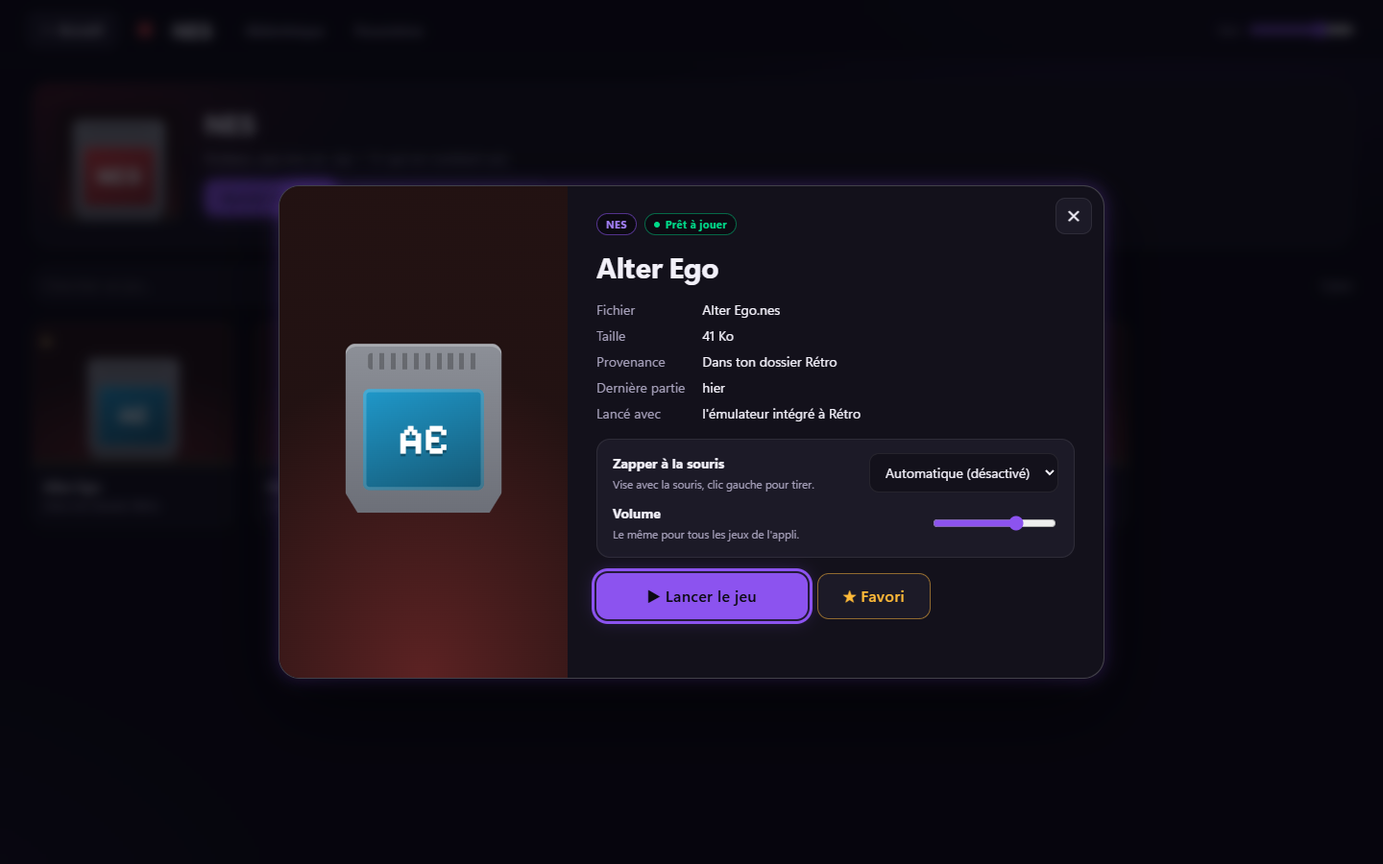
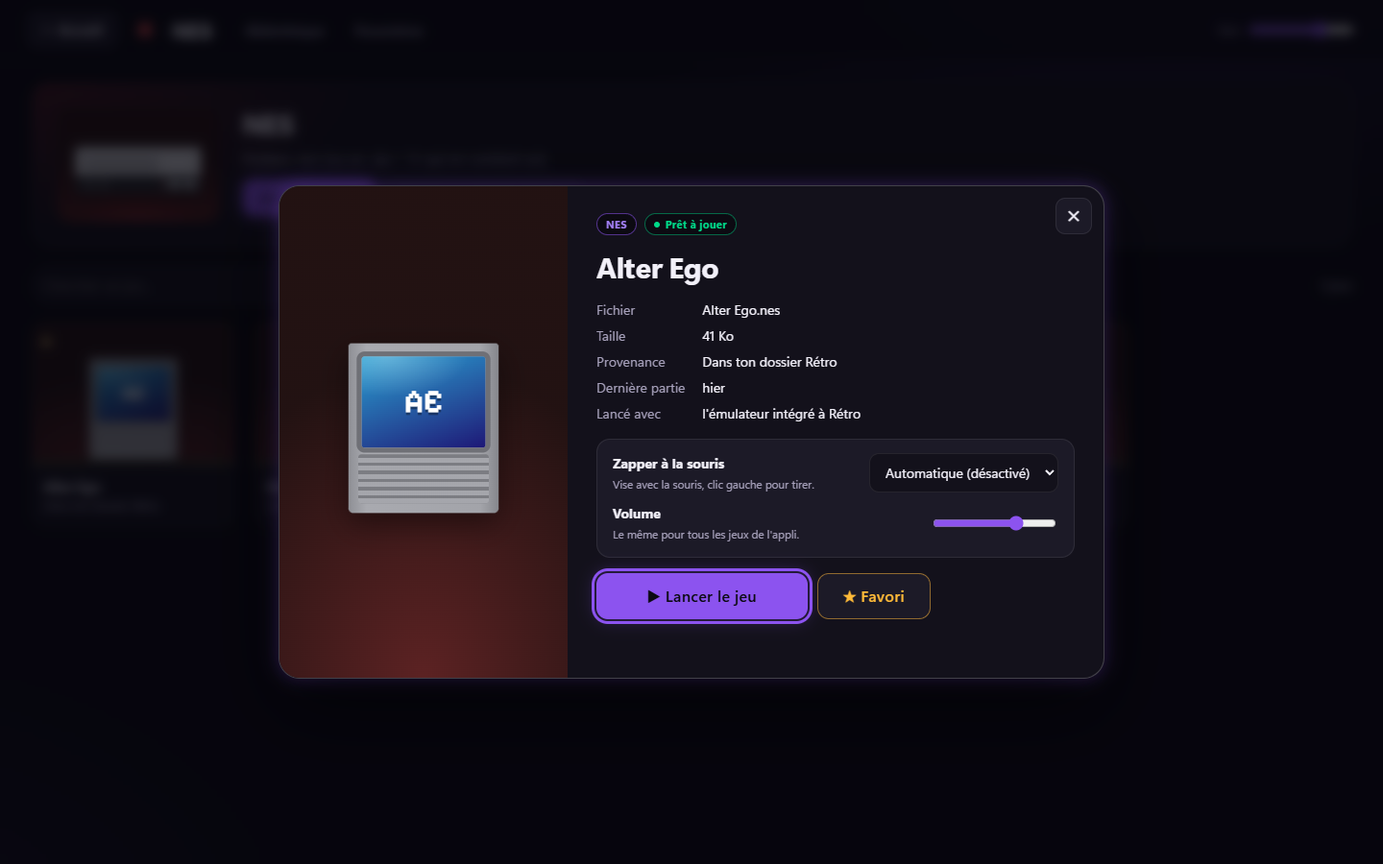
Appli Rétro 0.7.2 : vraies formes des cartouches, disques et consoles
- Jaquettes : un support par console d'après l'objet réel (cartouches
  NES, Super Nintendo, N64 ; CD PlayStation ; cartes DS, 3DS, Switch ;
  UMD PSP ; boîtiers DVD PS2 et Blu-ray PS3 ; mini-disque GameCube).
- Choix des consoles (accueil, pages de console, site) : dessin de la
  console elle-même (consoles-dessins.js, SVG sans logo).
- Captures du site mises à jour.

diff --git a/app/pages/supports.css b/app/pages/supports.css
@@ -1,26 +1,80 @@
-/* Supports de jeu dessinés (cartouche, disque, boîtier, carte, petit disque) : catalogue et accueil. */
-  .jaquette::after { content: ""; position: absolute; left: 0; right: 0; bottom: 0; height: 9px; background: linear-gradient(#3a3227, #241e17); box-shadow: 0 -1px 0 rgba(255,255,255,.08) inset; }
-  .media { position: relative; z-index: 1; display: grid; place-items: center; margin-bottom: 9px; transition: transform .15s; }
-  :is(.carte, .console):hover .media, :is(.carte, .console):focus-visible .media { transform: translateY(-6px) rotate(-1.5deg); }
-  .etiquette { font: 600 26px/1 "Pixelify", system-ui, sans-serif; color: #fff; text-shadow: 0 2px 0 rgba(0,0,0,.3); }
-  /* Cartouche : coque grise, rainures en haut, étiquette colorée */
-  [data-support="cartouche"] .media { width: 96px; height: 104px; border-radius: 7px 7px 3px 3px; background: linear-gradient(#8d9098, #6d7079); box-shadow: 0 6px 12px rgba(0,0,0,.4), inset 0 2px 0 rgba(255,255,255,.25); clip-path: polygon(0 0, 100% 0, 100% 88%, 92% 100%, 8% 100%, 0 88%); }
-  [data-support="cartouche"] .media::before { content: ""; position: absolute; top: 6px; left: 14px; right: 14px; height: 10px; background: repeating-linear-gradient(90deg, rgba(0,0,0,.25) 0 3px, transparent 3px 7px); border-radius: 2px; }
-  [data-support="cartouche"] .etiquette { width: 74px; height: 62px; margin-top: 14px; display: grid; place-items: center; border-radius: 4px; background: linear-gradient(160deg, hsl(var(--t) 60% 52%), hsl(var(--t) 55% 30%)); box-shadow: inset 0 0 0 2px rgba(255,255,255,.18); }
-  /* Disque dans son boîtier transparent */
-  [data-support="disque"] .media { width: 104px; height: 100px; border-radius: 3px; background: linear-gradient(135deg, rgba(255,255,255,.18), rgba(255,255,255,.04) 40%, rgba(255,255,255,.12)); border: 1px solid rgba(255,255,255,.25); box-shadow: 0 6px 12px rgba(0,0,0,.4); }
-  [data-support="disque"] .media::before { content: ""; position: absolute; left: 0; top: 0; bottom: 0; width: 9px; background: rgba(0,0,0,.35); border-right: 1px solid rgba(255,255,255,.15); }
-  [data-support="disque"] .etiquette { width: 80px; height: 80px; margin-left: 9px; border-radius: 50%; display: grid; place-items: center; font-size: 22px;
-    background: radial-gradient(circle, #1b1d22 0 9px, #c9ccd3 9.5px 12px, transparent 12.5px), conic-gradient(from 30deg, hsl(var(--t) 60% 55%), hsl(calc(var(--t) + 60) 60% 50%), hsl(var(--t) 55% 35%), hsl(calc(var(--t) - 50) 60% 55%), hsl(var(--t) 60% 55%)); }
-  /* Boîtier haut (PS2, PS3) : bandeau du haut et jaquette */
-  [data-support="boitier"] .media { width: 78px; height: 112px; border-radius: 4px; overflow: hidden; background: linear-gradient(170deg, hsl(var(--t) 55% 45%), hsl(var(--t) 50% 22%)); box-shadow: 0 6px 12px rgba(0,0,0,.45), inset -5px 0 0 rgba(0,0,0,.25); }
-  [data-support="boitier"] .media::before { content: ""; position: absolute; top: 0; left: 0; right: 0; height: 15px; background: hsl(var(--h) 20% 12%); border-bottom: 1px solid rgba(255,255,255,.2); }
-  [data-support="boitier"] .etiquette { margin-top: 12px; }
-  /* Carte de jeu (3DS, Switch) : petite carte avec un coin coupé */
-  [data-support="carte"] .media { width: 74px; height: 88px; border-radius: 8px; background: linear-gradient(#3a3d45, #24262c); box-shadow: 0 6px 12px rgba(0,0,0,.45); clip-path: polygon(0 0, 82% 0, 100% 13%, 100% 100%, 0 100%); }
-  [data-support="carte"] .media::before { content: ""; position: absolute; top: 5px; left: 9px; right: 18px; height: 6px; background: repeating-linear-gradient(90deg, #d7b45a 0 4px, transparent 4px 7px); opacity: .8; }
-  [data-support="carte"] .etiquette { width: 58px; height: 56px; margin-top: 10px; display: grid; place-items: center; border-radius: 4px; font-size: 22px; background: linear-gradient(160deg, hsl(var(--t) 60% 55%), hsl(var(--t) 55% 32%)); }
-  /* Petit disque dans sa coque (PSP) */
-  [data-support="umd"] .media { width: 92px; height: 100px; border-radius: 14px 14px 8px 8px; background: linear-gradient(#2c2f36, #1c1e23); box-shadow: 0 6px 12px rgba(0,0,0,.45); }
-  [data-support="umd"] .etiquette { width: 66px; height: 66px; border-radius: 50%; display: grid; place-items: center; font-size: 20px; background: radial-gradient(circle, #15161a 0 7px, transparent 7.5px), conic-gradient(hsl(var(--t) 60% 55%), hsl(calc(var(--t) + 80) 55% 50%), hsl(var(--t) 60% 55%)); }
-  @media (prefers-reduced-motion: reduce) { .media { transition: none; } :is(.carte, .console):hover .media { transform: none; } }
+/* Supports de jeu dessinés d'après les vrais objets (sans logo) : une forme par console.
+   Structure : .media (le support) > .etiquette (l'étiquette du jeu, couleur --t propre au jeu).
+   Utilisé par l'accueil, la bibliothèque, les pages de console, la fiche du jeu et le site. */
+.jaquette::after { content: ""; position: absolute; left: 0; right: 0; bottom: 0; height: 9px; background: linear-gradient(#3a3227, #241e17); box-shadow: 0 -1px 0 rgba(255,255,255,.08) inset; }
+.media { position: relative; z-index: 1; display: grid; place-items: center; margin-bottom: 9px; transition: transform .15s; filter: drop-shadow(0 7px 9px rgba(0,0,0,.45)); }
+:is(.carte, .console):hover .media, :is(.carte, .console):focus-visible .media { transform: translateY(-6px) rotate(-1.5deg); }
+.etiquette { position: relative; z-index: 1; display: grid; place-items: center; font: 600 22px/1 "Pixelify", system-ui, sans-serif; color: #fff; text-shadow: 0 2px 0 rgba(0,0,0,.35); }
+/* Illustration du jeu sur l'étiquette : dégradé et reflet, teinte propre à chaque jeu */
+.etiquette { background: radial-gradient(120% 80% at 20% 0%, rgba(255,255,255,.28), transparent 55%), linear-gradient(160deg, hsl(var(--t, 260) 65% 55%), hsl(calc(var(--t, 260) + 40) 60% 30%)); }
+
+/* NES : cartouche grise plus haute que large, étiquette en haut, rainures horizontales en bas */
+[data-support="nes"] .media { width: 92px; height: 104px; align-items: start; padding-top: 8px; border-radius: 2px 2px 3px 3px;
+  background: linear-gradient(90deg, #8f9096, #a9aab0 12%, #a3a4aa 88%, #86878d); }
+[data-support="nes"] .media::after { content: ""; position: absolute; left: 6px; right: 6px; bottom: 6px; height: 30px; border-radius: 2px;
+  background: repeating-linear-gradient(#7c7d83 0 2px, #a5a6ac 2px 5px); }
+[data-support="nes"] .etiquette { width: 76px; height: 56px; border-radius: 2px; font-size: 20px; box-shadow: 0 0 0 3px #6f7076; }
+
+/* Super Nintendo : cartouche gris clair, haut arrondi, encoches de prise sur les côtés */
+[data-support="snes"] .media { width: 108px; height: 84px; border-radius: 14px 14px 4px 4px;
+  background: linear-gradient(#d2d3d9, #b9bac1);
+  clip-path: polygon(0 0, 100% 0, 100% 30%, 94% 34%, 94% 56%, 100% 60%, 100% 100%, 0 100%, 0 60%, 6% 56%, 6% 34%, 0 30%); }
+[data-support="snes"] .media::after { content: ""; position: absolute; left: 0; right: 0; bottom: 0; height: 12px; background: repeating-linear-gradient(90deg, #a9aab1 0 3px, #c3c4cb 3px 6px); }
+[data-support="snes"] .etiquette { width: 74px; height: 50px; margin-bottom: 10px; border-radius: 3px; font-size: 19px; box-shadow: 0 0 0 2px #9fa0a7; }
+
+/* Nintendo 64 : cartouche gris foncé, dessus large et nervuré, bas en trapèze */
+[data-support="n64"] .media { width: 104px; height: 92px; align-items: start; padding-top: 18px; border-radius: 10px 10px 0 0;
+  background: linear-gradient(#4a4c52, #34363b);
+  clip-path: polygon(0 0, 100% 0, 100% 72%, 88% 100%, 12% 100%, 0 72%); }
+[data-support="n64"] .media::before { content: ""; position: absolute; top: 3px; left: 8px; right: 8px; height: 10px; border-radius: 6px 6px 0 0;
+  background: repeating-linear-gradient(90deg, #26272b 0 3px, #55575d 3px 6px); }
+[data-support="n64"] .etiquette { width: 74px; height: 48px; border-radius: 3px; font-size: 19px; }
+
+/* PlayStation : CD à la tranche noire, dans son boîtier cristal (charnière à gauche) */
+[data-support="cd"] .media { width: 104px; height: 100px; border-radius: 3px;
+  background: linear-gradient(135deg, rgba(255,255,255,.22), rgba(255,255,255,.05) 40%, rgba(255,255,255,.14)); border: 1px solid rgba(255,255,255,.3); }
+[data-support="cd"] .media::before { content: ""; position: absolute; left: 0; top: 0; bottom: 0; width: 9px; background: rgba(0,0,0,.4); border-right: 1px solid rgba(255,255,255,.18); }
+[data-support="cd"] .etiquette { width: 82px; height: 82px; margin-left: 9px; border-radius: 50%; font-size: 20px;
+  background: radial-gradient(circle, transparent 0 8px, #c9ccd3 8.5px 12px, transparent 12.5px), radial-gradient(120% 80% at 30% 10%, rgba(255,255,255,.3), transparent 55%), linear-gradient(160deg, hsl(var(--t) 65% 55%), hsl(calc(var(--t) + 40) 60% 30%));
+  box-shadow: 0 0 0 4px #111216, 0 0 0 5px #3a3c44; -webkit-mask: radial-gradient(circle, transparent 0 7.5px, #000 8px); mask: radial-gradient(circle, transparent 0 7.5px, #000 8px); }
+
+/* GameCube : mini-disque de 8 cm dans un boîtier sombre */
+[data-support="minidisque"] .media { width: 90px; height: 104px; border-radius: 4px; background: linear-gradient(#2a2b31, #1b1c20); border: 1px solid rgba(255,255,255,.15); }
+[data-support="minidisque"] .etiquette { width: 64px; height: 64px; border-radius: 50%; font-size: 17px; box-shadow: 0 0 0 3px #d9dbe0;
+  -webkit-mask: radial-gradient(circle, transparent 0 6px, #000 6.5px); mask: radial-gradient(circle, transparent 0 6px, #000 6.5px); }
+
+/* DS : petite carte gris clair, coin haut droit biseauté, étiquette sur presque toute la face */
+[data-support="carteds"] .media { width: 74px; height: 82px; border-radius: 6px 3px 6px 6px; padding-top: 6px; align-items: start;
+  background: linear-gradient(#e1e2e6, #c5c6cc); clip-path: polygon(0 0, 84% 0, 100% 12%, 100% 100%, 0 100%); }
+[data-support="carteds"] .etiquette { width: 62px; height: 62px; border-radius: 3px; font-size: 18px; }
+
+/* 3DS : carte gris clair avec le petit ergot en haut à droite */
+[data-support="carte3ds"] .media { width: 76px; height: 86px; padding-top: 10px; align-items: start; border-radius: 6px;
+  background: linear-gradient(#ebecef, #ccced4); clip-path: polygon(0 4px, 70% 4px, 70% 0, 90% 0, 90% 4px, 100% 4px, 100% 100%, 0 100%); }
+[data-support="carte3ds"] .etiquette { width: 62px; height: 62px; border-radius: 3px; font-size: 18px; }
+
+/* Switch : mini-carte noire, encoche en haut à gauche, étiquette bordée de blanc */
+[data-support="switch"] .media { width: 64px; height: 76px; padding: 6px 0 0; align-items: start; border-radius: 7px;
+  background: linear-gradient(#2c2d33, #17181c); clip-path: polygon(14% 0, 100% 0, 100% 100%, 0 100%, 0 14%, 7% 14%, 7% 0); }
+[data-support="switch"] .etiquette { width: 54px; height: 62px; border-radius: 3px; font-size: 16px; box-shadow: 0 0 0 2px #f2f2f2; }
+
+/* PSP : UMD, coque arrondie en haut avec la fenêtre qui montre le disque */
+[data-support="umd"] .media { width: 88px; height: 100px; border-radius: 44px 44px 8px 8px / 30px 30px 8px 8px; background: linear-gradient(#34363d, #1d1f24); border: 1px solid rgba(255,255,255,.12); }
+[data-support="umd"] .media::after { content: ""; position: absolute; left: 10px; right: 10px; bottom: 6px; height: 10px; border-radius: 2px; background: #121317; }
+[data-support="umd"] .etiquette { width: 66px; height: 66px; margin-bottom: 12px; border-radius: 50%; font-size: 17px; box-shadow: 0 0 0 4px #c8cbd2;
+  -webkit-mask: radial-gradient(circle, transparent 0 7px, #000 7.5px); mask: radial-gradient(circle, transparent 0 7px, #000 7.5px); }
+
+/* PS2 : boîtier DVD noir, bandeau noir en haut, jaquette en dessous */
+[data-support="dvd"] .media { width: 80px; height: 112px; padding: 16px 4px 4px; align-items: stretch; justify-items: stretch; border-radius: 4px; background: #121316; box-shadow: inset 0 0 0 1px rgba(255,255,255,.12), inset -5px 0 0 #050506; }
+[data-support="dvd"] .media::before { content: ""; position: absolute; top: 4px; left: 6px; width: 30px; height: 8px; border-radius: 2px; background: linear-gradient(90deg, #d9dbe0 0 30%, transparent 30% 38%, #d9dbe0 38%); opacity: .75; }
+[data-support="dvd"] .etiquette { border-radius: 2px; font-size: 19px; }
+
+/* PS3 : boîtier Blu-ray plus petit, bandeau noir et liseré bleu */
+[data-support="bluray"] .media { width: 80px; height: 100px; padding: 15px 4px 4px; align-items: stretch; justify-items: stretch; border-radius: 6px;
+  background: linear-gradient(#1d4f9c, #123a77); box-shadow: inset 0 0 0 1px rgba(255,255,255,.2); }
+[data-support="bluray"] .media::before { content: ""; position: absolute; top: 3px; left: 3px; right: 3px; height: 10px; border-radius: 4px 4px 0 0; background: linear-gradient(#0f1012, #000); box-shadow: 0 1px 0 #6aa3ff; }
+[data-support="bluray"] .etiquette { border-radius: 2px; font-size: 19px; }
+
+@media (prefers-reduced-motion: reduce) { .media { transition: none; } :is(.carte, .console):hover .media { transform: none; } }
+/* Disques : le titre sous le trou central */
+:is([data-support="cd"], [data-support="umd"], [data-support="minidisque"]) .etiquette { place-items: end center; padding-bottom: 14%; font-size: 15px; }

diff --git a/app/pages/consoles-dessins.js b/app/pages/consoles-dessins.js
@@ -1,0 +1,101 @@
+// Dessins des consoles (SVG, sans logo ni marque) pour les tuiles de choix de console : accueil, pages de console, site.
+// RetroDessins.console(id) rend le SVG (texte fixe défini ici, jamais de données de l'utilisateur).
+(function () {
+  "use strict";
+  const svg = c => '<svg viewBox="0 0 160 100" aria-hidden="true" focusable="false">' + c + "</svg>";
+  const DESSINS = {
+    // NES : boîte grise, trappe à cartouche nervurée, bande noire en bas avec boutons et voyant rouge
+    nes: svg(`
+      <rect x="10" y="30" width="140" height="52" rx="3" fill="#cfcfd3"/>
+      <rect x="10" y="30" width="140" height="6" rx="2" fill="#bdbdc2"/>
+      <rect x="18" y="40" width="86" height="20" rx="1.5" fill="#b5b5ba"/>
+      <path d="M22 45h78M22 49.5h78M22 54h78" stroke="#9d9da3" stroke-width="1.6"/>
+      <rect x="10" y="62" width="140" height="20" rx="2" fill="#26262a"/>
+      <rect x="20" y="67" width="11" height="9" rx="1" fill="#4a4a50"/><rect x="36" y="67" width="11" height="9" rx="1" fill="#4a4a50"/>
+      <circle cx="107" cy="71.5" r="1.8" fill="#ff3b3b"/>
+      <rect x="113" y="68" width="14" height="7" rx="1.5" fill="#d9d9dd"/><rect x="131" y="68" width="14" height="7" rx="1.5" fill="#d9d9dd"/>`),
+    // Super Nintendo (modèle arrondi) : corps gris clair, fente à cartouche, curseurs et bouton d'éjection
+    snes: svg(`
+      <rect x="12" y="40" width="136" height="44" rx="16" fill="#d9dade"/>
+      <rect x="34" y="26" width="92" height="22" rx="8" fill="#c9cad0"/>
+      <rect x="48" y="31" width="64" height="5" rx="2" fill="#2d2e33"/>
+      <rect x="24" y="52" width="14" height="6" rx="2" fill="#8e8f96"/><rect x="122" y="52" width="14" height="6" rx="2" fill="#8e8f96"/>
+      <rect x="70" y="52" width="20" height="7" rx="3" fill="#b2b3ba"/>
+      <rect x="30" y="70" width="12" height="7" rx="1.5" fill="#55565c"/><rect x="46" y="70" width="12" height="7" rx="1.5" fill="#55565c"/>
+      <circle cx="112" cy="73" r="1.6" fill="#ff4444"/>`),
+    // Nintendo 64 : corps anthracite, bosse centrale avec la fente, 4 prises manette devant
+    n64: svg(`
+      <path d="M8 60 Q10 46 30 44 L52 40 Q80 22 108 40 L130 44 Q150 46 152 60 L150 80 Q148 86 140 86 L20 86 Q12 86 10 80 Z" fill="#3a3c42"/>
+      <path d="M58 40 Q80 26 102 40 Z" fill="#2c2e33"/>
+      <rect x="62" y="35" width="36" height="4" rx="2" fill="#111215"/>
+      <rect x="30" y="50" width="10" height="5" rx="2" fill="#6c6e75"/><rect x="120" y="50" width="10" height="5" rx="2" fill="#6c6e75"/>
+      <g fill="#1b1c20"><rect x="40" y="70" width="14" height="9" rx="2"/><rect x="60" y="70" width="14" height="9" rx="2"/><rect x="86" y="70" width="14" height="9" rx="2"/><rect x="106" y="70" width="14" height="9" rx="2"/></g>`),
+    // PlayStation : boîtier gris vu de dessus, grand couvercle rond, trois boutons ronds
+    psx: svg(`
+      <rect x="14" y="14" width="132" height="74" rx="6" fill="#c9cacf"/>
+      <rect x="14" y="14" width="132" height="74" rx="6" fill="none" stroke="#b4b5bb" stroke-width="2"/>
+      <circle cx="58" cy="51" r="31" fill="#bfc0c6" stroke="#a9aab0" stroke-width="2"/>
+      <circle cx="58" cy="51" r="6" fill="#adaeb4"/>
+      <circle cx="108" cy="34" r="7" fill="#9fa0a7"/><circle cx="126" cy="54" r="6" fill="#9fa0a7"/><circle cx="108" cy="70" r="6" fill="#9fa0a7"/>
+      <circle cx="126" cy="72" r="1.6" fill="#3fd06a"/>`),
+    // DS Lite ouverte : deux écrans, croix et boutons
+    ds: svg(`
+      <rect x="44" y="4" width="72" height="44" rx="5" fill="#eceef2"/>
+      <rect x="56" y="10" width="48" height="33" rx="1.5" fill="#1b1d24"/><rect x="58" y="12" width="44" height="29" fill="hsl(220 60% 40%)"/>
+      <rect x="40" y="52" width="80" height="44" rx="6" fill="#e3e5ea"/>
+      <rect x="62" y="58" width="36" height="28" rx="1.5" fill="#1b1d24"/><rect x="64" y="60" width="32" height="24" fill="hsl(220 50% 30%)"/>
+      <path d="M49 69h8v-4h4v4h0v4h-4v4h-4v-4h-4z" fill="#3a3c44"/>
+      <g fill="#3a3c44"><circle cx="110" cy="64" r="2.3"/><circle cx="105" cy="69" r="2.3"/><circle cx="115" cy="69" r="2.3"/><circle cx="110" cy="74" r="2.3"/></g>`),
+    // 3DS ouverte : écran du haut plus large, pad circulaire, croix, boutons
+    "3ds": svg(`
+      <rect x="36" y="4" width="88" height="44" rx="6" fill="#2b3040"/>
+      <rect x="44" y="10" width="72" height="33" rx="1.5" fill="#0d0f14"/><rect x="46" y="12" width="68" height="29" fill="hsl(195 60% 40%)"/>
+      <rect x="36" y="52" width="88" height="44" rx="6" fill="#323848"/>
+      <rect x="62" y="58" width="36" height="28" rx="1.5" fill="#0d0f14"/><rect x="64" y="60" width="32" height="24" fill="hsl(195 50% 30%)"/>
+      <circle cx="49" cy="63" r="5" fill="#1b1e27" stroke="#5a6072" stroke-width="1.2"/>
+      <path d="M45 77h5v-3h3v3h0v3h-3v3h-3v-3h-2z" fill="#1b1e27"/>
+      <g fill="#cfd3dd"><circle cx="112" cy="63" r="2"/><circle cx="108" cy="67" r="2"/><circle cx="116" cy="67" r="2"/><circle cx="112" cy="71" r="2"/></g>`),
+    // Switch : écran noir au centre, manettes bleue à gauche et rouge à droite
+    switch: svg(`
+      <rect x="12" y="20" width="26" height="62" rx="12" fill="#18b7e6"/>
+      <rect x="122" y="20" width="26" height="62" rx="12" fill="#ff5b53"/>
+      <rect x="36" y="20" width="88" height="62" rx="3" fill="#222328"/>
+      <rect x="42" y="25" width="76" height="52" rx="1" fill="#0c0d10"/><rect x="44" y="27" width="72" height="48" fill="hsl(260 30% 22%)"/>
+      <circle cx="25" cy="38" r="5" fill="#2a2c32"/><circle cx="135" cy="60" r="5" fill="#2a2c32"/>
+      <g fill="#2a2c32"><circle cx="25" cy="56" r="2"/><circle cx="21" cy="60" r="2"/><circle cx="29" cy="60" r="2"/><circle cx="25" cy="64" r="2"/>
+      <circle cx="135" cy="34" r="2"/><circle cx="131" cy="38" r="2"/><circle cx="139" cy="38" r="2"/><circle cx="135" cy="42" r="2"/></g>`),
+    // PSP : console noire allongée aux bouts arrondis, écran large
+    psp: svg(`
+      <rect x="6" y="28" width="148" height="48" rx="24" fill="#1d1e22"/>
+      <rect x="6" y="28" width="148" height="48" rx="24" fill="none" stroke="#3b3d44" stroke-width="1.5"/>
+      <rect x="40" y="33" width="80" height="38" rx="1.5" fill="#0a0b0d"/><rect x="42" y="35" width="76" height="34" fill="hsl(230 35% 26%)"/>
+      <path d="M17 48h6v-4h4v4h6v4h-6v4h-4v-4h-6z" fill="#4a4c54"/>
+      <circle cx="26" cy="64" r="3" fill="#3a3c43"/>
+      <g fill="#4a4c54"><circle cx="138" cy="43" r="2.6"/><circle cx="132" cy="49" r="2.6"/><circle cx="144" cy="49" r="2.6"/><circle cx="138" cy="55" r="2.6"/></g>`),
+    // PlayStation 2 : boîtier noir à deux étages, rainures, tiroir à disque
+    ps2: svg(`
+      <rect x="10" y="34" width="140" height="48" rx="2" fill="#17181c"/>
+      <rect x="10" y="34" width="140" height="22" rx="2" fill="#202126"/>
+      <path d="M96 40h50M96 44h50M96 48h50M96 52h50" stroke="#0c0c0f" stroke-width="2"/>
+      <rect x="18" y="42" width="70" height="5" rx="1" fill="#0b0b0d"/>
+      <rect x="10" y="56" width="140" height="2" fill="#2f3138"/>
+      <circle cx="22" cy="68" r="2.2" fill="#3fa0ff"/>
+      <g fill="#0b0b0d"><rect x="40" y="64" width="12" height="9" rx="1.5"/><rect x="56" y="64" width="12" height="9" rx="1.5"/><rect x="78" y="65" width="7" height="6" rx="1"/><rect x="88" y="65" width="7" height="6" rx="1"/></g>`),
+    // PlayStation 3 (premier modèle) : noire et brillante, dessus bombé, fente à disque
+    ps3: svg(`
+      <path d="M10 82 L10 52 Q10 30 40 28 L120 28 Q150 30 150 52 L150 82 Z" fill="#141519"/>
+      <path d="M14 50 Q16 34 42 32 L118 32 Q144 34 146 50" fill="none" stroke="#3a3c44" stroke-width="2"/>
+      <rect x="10" y="60" width="140" height="22" fill="#1d1e23"/>
+      <rect x="30" y="66" width="80" height="3" rx="1.5" fill="#050506"/>
+      <rect x="10" y="80" width="140" height="3" fill="#2a2c32"/>
+      <circle cx="132" cy="70" r="2" fill="#3fd06a"/>`),
+    // GameCube : cube violet vu de dessus, couvercle rond, poignée à l'arrière
+    gc: svg(`
+      <rect x="54" y="6" width="52" height="12" rx="5" fill="none" stroke="#4b3f8f" stroke-width="5"/>
+      <rect x="34" y="14" width="92" height="80" rx="7" fill="#6a5acd"/>
+      <circle cx="80" cy="50" r="27" fill="#5b4cb8" stroke="#4b3f8f" stroke-width="2"/>
+      <circle cx="80" cy="50" r="5" fill="#4b3f8f"/>
+      <circle cx="44" cy="84" r="4" fill="#4b3f8f"/><circle cx="116" cy="84" r="4" fill="#4b3f8f"/>`),
+  };
+  window.RetroDessins = { console: id => DESSINS[id] || "" };
+})();

diff --git a/app/pages/jeux.js b/app/pages/jeux.js
@@ -6,26 +6,26 @@
   // ---------- Consoles ----------
   // coeur : cœur EmulatorJS (jeu dans l'appli) ; externe : émulateur Windows téléchargé au premier jeu.
   const CONSOLES = {
-    nes: { nom: "NES", annee: 1983, sigle: "NES", support: "cartouche", coeur: "fceumm", h: 0, extensions: [".nes", ".zip", ".7z"], formats: "Fichiers .nes (ou un .zip / .7z qui en contient un).",
+    nes: { nom: "NES", annee: 1983, sigle: "NES", support: "nes", coeur: "fceumm", h: 0, extensions: [".nes", ".zip", ".7z"], formats: "Fichiers .nes (ou un .zip / .7z qui en contient un).",
       aide: "Clavier : <kbd>Z</kbd><kbd>Q</kbd><kbd>S</kbd><kbd>D</kbd> bouger · <kbd>Espace</kbd> ou <kbd>K</kbd> A · <kbd>J</kbd> B · <kbd>Entrée</kbd> Start · <kbd>Retour</kbd> Select. Manette : stick ou croix, A/B, gâchettes RT = B (tir) et LT = A." },
-    snes: { nom: "Super Nintendo", annee: 1990, sigle: "SNES", support: "cartouche", coeur: "snes9x", h: 265, extensions: [".sfc", ".smc", ".zip", ".7z"], formats: "Fichiers .sfc ou .smc (ou un .zip / .7z).",
+    snes: { nom: "Super Nintendo", annee: 1990, sigle: "SNES", support: "snes", coeur: "snes9x", h: 265, extensions: [".sfc", ".smc", ".zip", ".7z"], formats: "Fichiers .sfc ou .smc (ou un .zip / .7z).",
       aide: "Clavier : <kbd>Z</kbd><kbd>Q</kbd><kbd>S</kbd><kbd>D</kbd> bouger · <kbd>K</kbd> B · <kbd>L</kbd> A · <kbd>J</kbd> Y · <kbd>I</kbd> X · <kbd>A</kbd> <kbd>E</kbd> L / R · <kbd>Entrée</kbd> Start. Manette : stick ou croix, gâchettes et bumpers = L / R." },
-    n64: { nom: "Nintendo 64", annee: 1996, sigle: "N64", support: "cartouche", coeur: "mupen64plus_next", h: 140, extensions: [".z64", ".n64", ".v64", ".zip", ".7z"], formats: "Fichiers .z64, .n64 ou .v64 (ou un .zip / .7z).",
+    n64: { nom: "Nintendo 64", annee: 1996, sigle: "N64", support: "n64", coeur: "mupen64plus_next", h: 140, extensions: [".z64", ".n64", ".v64", ".zip", ".7z"], formats: "Fichiers .z64, .n64 ou .v64 (ou un .zip / .7z).",
       aide: "Clavier : <kbd>Z</kbd><kbd>Q</kbd><kbd>S</kbd><kbd>D</kbd> stick · souris caméra (boutons C) · clic gauche Z (tir) · clic droit R (viser) · <kbd>Espace</kbd> A · <kbd>J</kbd> B · <kbd>Maj</kbd> Z · <kbd>A</kbd> <kbd>E</kbd> L / R · <kbd>↑↓←→</kbd> boutons C · <kbd>Entrée</kbd> Start. Manette : stick gauche, stick droit = boutons C, gâchettes = Z, bumpers = L / R." },
-    psx: { nom: "PlayStation", annee: 1994, sigle: "PS1", support: "disque", coeur: "pcsx_rearmed", h: 210, extensions: [".chd", ".pbp", ".zip", ".7z", ".iso"], formats: "Un fichier .chd ou .pbp, ou un .zip avec le .cue et les .bin du jeu.",
+    psx: { nom: "PlayStation", annee: 1994, sigle: "PS1", support: "cd", coeur: "pcsx_rearmed", h: 210, extensions: [".chd", ".pbp", ".zip", ".7z", ".iso"], formats: "Un fichier .chd ou .pbp, ou un .zip avec le .cue et les .bin du jeu.",
       aide: "Clavier : <kbd>Z</kbd><kbd>Q</kbd><kbd>S</kbd><kbd>D</kbd> bouger · souris caméra · clic gauche R2 · clic droit L2 · <kbd>Espace</kbd> ✕ · <kbd>L</kbd> ○ · <kbd>J</kbd> □ · <kbd>I</kbd> △ · <kbd>A</kbd> <kbd>E</kbd> L1 / R1 · <kbd>Maj</kbd> L2 · <kbd>R</kbd> R2 · <kbd>Entrée</kbd> Start. Manette DualShock : deux sticks, gâchettes L2 / R2." },
-    "3ds": { nom: "3DS", annee: 2011, sigle: "3DS", support: "carte", externe: "Azahar", h: 350, extensions: [".cci", ".3ds", ".cxi", ".cia", ".3dsx", ".zcci", ".zcxi", ".z3dsx"], formats: "Tes jeux 3DS déchiffrés : .cia, .cci, .cxi ou .3dsx (un .3ds déchiffré renommé en .cci marche).",
+    "3ds": { nom: "3DS", annee: 2011, sigle: "3DS", support: "carte3ds", externe: "Azahar", h: 350, extensions: [".cci", ".3ds", ".cxi", ".cia", ".3dsx", ".zcci", ".zcxi", ".z3dsx"], formats: "Tes jeux 3DS déchiffrés : .cia, .cci, .cxi ou .3dsx (un .3ds déchiffré renommé en .cci marche).",
       aide: "Clavier : <kbd>Z</kbd><kbd>Q</kbd><kbd>S</kbd><kbd>D</kbd> stick · <kbd>Maj</kbd> marcher · <kbd>Entrée</kbd> A (valider) · <kbd>Espace</kbd> B (retour) · <kbd>I</kbd> X · <kbd>J</kbd> Y · <kbd>A</kbd> <kbd>E</kbd> L / R · <kbd>↑↓←→</kbd> croix · <kbd>P</kbd> Start · <kbd>O</kbd> Select · souris = écran tactile. Avec une manette branchée (appuie sur un bouton ici avant de lancer), tout passe par la manette." },
-    switch: { nom: "Switch", annee: 2017, sigle: "NX", support: "carte", externe: "Eden", h: 355, extensions: [".nsp", ".xci", ".nca", ".nro", ".nso"], formats: "Tes jeux Switch : .nsp ou .xci (avec tes clés et ton firmware).",
+    switch: { nom: "Switch", annee: 2017, sigle: "NX", support: "switch", externe: "Eden", h: 355, extensions: [".nsp", ".xci", ".nca", ".nro", ".nso"], formats: "Tes jeux Switch : .nsp ou .xci (avec tes clés et ton firmware).",
       aide: "Clavier : <kbd>Z</kbd><kbd>Q</kbd><kbd>S</kbd><kbd>D</kbd> stick · <kbd>Maj</kbd> marcher · souris caméra · clic gauche ZR · clic droit ZL · <kbd>Entrée</kbd> A · <kbd>Espace</kbd> B · <kbd>I</kbd> X · <kbd>J</kbd> Y · <kbd>A</kbd> <kbd>E</kbd> L / R · <kbd>↑↓←→</kbd> croix · <kbd>P</kbd> + · <kbd>O</kbd> − · <kbd>C</kbd> <kbd>V</kbd> clic des sticks. Manette : règle-la une fois dans Eden, l'appli la remet ensuite toute seule quand elle est branchée (appuie sur un de ses boutons ici avant de lancer)." },
     psp: { nom: "PSP", annee: 2004, sigle: "PSP", support: "umd", externe: "PPSSPP", h: 200, extensions: [".iso", ".cso", ".chd", ".pbp"], formats: "Tes jeux PSP : .iso, .cso, .chd ou .pbp." },
-    ps2: { nom: "PlayStation 2", annee: 2000, sigle: "PS2", support: "boitier", externe: "PCSX2", h: 230, extensions: [".iso", ".chd", ".cso", ".zso", ".cue"], formats: "Tes jeux PS2 : .iso, .chd, .cso ou .cue (avec le BIOS de ta PS2)." },
-    ps3: { nom: "PlayStation 3", annee: 2006, sigle: "PS3", support: "boitier", externe: "RPCS3", h: 0, dossiers: true, extensions: [".iso"], formats: "Tes jeux PS3 : un dossier de jeu (avec PS3_GAME ou EBOOT.BIN dedans) ou un .iso." },
+    ps2: { nom: "PlayStation 2", annee: 2000, sigle: "PS2", support: "dvd", externe: "PCSX2", h: 230, extensions: [".iso", ".chd", ".cso", ".zso", ".cue"], formats: "Tes jeux PS2 : .iso, .chd, .cso ou .cue (avec le BIOS de ta PS2)." },
+    ps3: { nom: "PlayStation 3", annee: 2006, sigle: "PS3", support: "bluray", externe: "RPCS3", h: 0, dossiers: true, extensions: [".iso"], formats: "Tes jeux PS3 : un dossier de jeu (avec PS3_GAME ou EBOOT.BIN dedans) ou un .iso." },
   };
   for (const [id, c] of Object.entries(CONSOLES)) { c.id = id; c.page = "salon.html?console=" + encodeURIComponent(id); }
   // La console DS a sa propre page (partagée avec l'Activité Discord) et garde ses jeux à part.
-  const DS = { id: "ds", nom: "DS, GBA et Game Boy", sigle: "DS", support: "carte", h: 220, page: "index.html", detail: "DS Lite : jeux DS, GBA, Game Boy, Game Boy Color" };
-  const BIENTOT = [{ id: "gc", nom: "GameCube et Wii", sigle: "GC", support: "disque", h: 255, detail: "avec Dolphin" }];
+  const DS = { id: "ds", nom: "DS, GBA et Game Boy", sigle: "DS", support: "carteds", h: 220, page: "index.html", detail: "DS Lite : jeux DS, GBA, Game Boy, Game Boy Color" };
+  const BIENTOT = [{ id: "gc", nom: "GameCube et Wii", sigle: "GC", support: "minidisque", h: 255, detail: "avec Dolphin" }];
 
   // ---------- Stockage local (IndexedDB) : jeux ajoutés à la main, sauvegardes, états ----------
   let base;
@@ -108,7 +108,7 @@
     b.style.setProperty("--t", teinte(j.nom));
     b.style.setProperty("--h", C ? C.h : 260);
     b.setAttribute("aria-label", nomLisible(j.nom) + (C ? ", " + C.nom : ""));
-    const jaq = document.createElement("span"); jaq.className = "jaquette"; jaq.dataset.support = C ? C.support : "cartouche";
+    const jaq = document.createElement("span"); jaq.className = "jaquette"; jaq.dataset.support = C ? C.support : "nes";
     jaq.innerHTML = '<span class="media"><span class="etiquette"></span></span>';
     jaq.querySelector(".etiquette").textContent = initiales(j.nom);
     const t = document.createElement("span"); t.className = "titre-jeu";

diff --git a/vitrine/index.html b/vitrine/index.html
@@ -111,19 +111,20 @@
     <p class="mentions">Rétro est distribué sous licence GPL-3.0. Aucun jeu, BIOS ni firmware n'est fourni : utilise uniquement des copies de jeux que tu possèdes. Les noms de consoles sont des marques de leurs propriétaires.</p>
   </div>
 </footer>
+<script src="../app/pages/consoles-dessins.js"></script>
 <script>
   // Consoles compatibles (dessin du support comme dans l'appli).
   const CONSOLES = [
-    ["DS, GBA, Game Boy", "Dans Rétro", "DS", "carte", 220], ["NES", "Dans Rétro", "NES", "cartouche", 0], ["Super Nintendo", "Dans Rétro", "SNES", "cartouche", 265],
-    ["Nintendo 64", "Dans Rétro", "N64", "cartouche", 140], ["PlayStation", "Dans Rétro", "PS1", "disque", 210], ["3DS", "avec Azahar", "3DS", "carte", 350],
-    ["Switch", "avec Eden", "NX", "carte", 355], ["PSP", "avec PPSSPP", "PSP", "umd", 200], ["PlayStation 2", "avec PCSX2", "PS2", "boitier", 230], ["PlayStation 3", "avec RPCS3", "PS3", "boitier", 0],
+    ["DS, GBA, Game Boy", "Dans Rétro", "ds", 220], ["NES", "Dans Rétro", "nes", 0], ["Super Nintendo", "Dans Rétro", "snes", 265],
+    ["Nintendo 64", "Dans Rétro", "n64", 140], ["PlayStation", "Dans Rétro", "psx", 210], ["3DS", "avec Azahar", "3ds", 350],
+    ["Switch", "avec Eden", "switch", 355], ["PSP", "avec PPSSPP", "psp", 200], ["PlayStation 2", "avec PCSX2", "ps2", 230], ["PlayStation 3", "avec RPCS3", "ps3", 0],
   ];
   const liste = document.getElementById("liste-consoles");
-  for (const [nom, detail, sigle, support, h] of CONSOLES) {
-    const a = document.createElement("article"); a.className = "panneau console-site"; a.style.setProperty("--h", h); a.style.setProperty("--t", h);
-    a.innerHTML = '<div class="visuel"><span class="media"><span class="etiquette"></span></span></div><div class="texte"><strong></strong><small></small></div>';
-    a.querySelector(".visuel").dataset.support = support;
-    a.querySelector(".etiquette").textContent = sigle; a.querySelector("strong").textContent = nom; a.querySelector("small").textContent = detail;
+  for (const [nom, detail, id, h] of CONSOLES) {
+    const a = document.createElement("article"); a.className = "panneau console-site"; a.style.setProperty("--h", h);
+    a.innerHTML = '<div class="visuel"></div><div class="texte"><strong></strong><small></small></div>';
+    a.querySelector(".visuel").innerHTML = RetroDessins.console(id); // SVG fixe de consoles-dessins.js
+    a.querySelector("strong").textContent = nom; a.querySelector("small").textContent = detail;
     liste.appendChild(a);
   }
 </script>

diff --git a/app/pages/accueil.html b/app/pages/accueil.html
@@ -48,8 +48,8 @@
   .console[aria-disabled="true"] { cursor: default; opacity: .5; }
   .console[aria-disabled="true"]:hover { translate: none; box-shadow: none; border-color: var(--bord); }
   .visuel { position: relative; display: grid; place-items: end center; overflow: hidden; background: radial-gradient(120% 90% at 50% 100%, hsl(var(--h) 50% 28%), hsl(var(--h) 35% 11%) 70%); }
-  .visuel .etiquette { font-size: 20px; }
-  .visuel::after { content: ""; position: absolute; left: 0; right: 0; bottom: 0; height: 9px; background: linear-gradient(#3a3227, #241e17); }
+  .visuel svg { width: 82%; height: 122px; margin-bottom: 8px; filter: drop-shadow(0 10px 12px rgb(0 0 0 / .5)); transition: transform .25s var(--courbe); }
+  @media (prefers-reduced-motion: no-preference) { :root[data-animations="oui"] .console:is(:hover, :focus-visible) .visuel svg { transform: translateY(-4px) scale(1.04); } }
   .infos { padding: 13px 15px 15px; display: grid; gap: 3px; }
   .infos strong { font-size: 16px; }
   .infos small { color: var(--texte-2); font-size: 12.5px; }
@@ -124,6 +124,7 @@
   <span class="maj"><span id="version"></span> <button type="button" class="btn" id="maj" hidden>Chercher une mise à jour</button></span>
 </footer>
 <script src="jeux.js"></script>
+<script src="consoles-dessins.js"></script>
 <script>
 (function () {
   "use strict";
@@ -137,9 +138,8 @@
     const b = document.createElement("button");
     b.type = "button"; b.className = "console apparait";
     b.style.setProperty("--h", c.h); b.style.setProperty("--t", c.h); b.style.setProperty("--i", i);
-    b.innerHTML = '<div class="visuel"><span class="media"><span class="etiquette"></span></span></div><div class="infos"><strong></strong><small class="detail"></small><small class="emu"></small></div><span class="badge"></span>';
-    b.querySelector(".visuel").dataset.support = c.support;
-    b.querySelector(".etiquette").textContent = c.sigle;
+    b.innerHTML = '<div class="visuel"></div><div class="infos"><strong></strong><small class="detail"></small><small class="emu"></small></div><span class="badge"></span>';
+    b.querySelector(".visuel").innerHTML = RetroDessins.console(c.id); // SVG fixe de consoles-dessins.js
     b.querySelector("strong").textContent = c.nom;
     b.querySelector(".detail").textContent = c.detail || (c.externe ? "avec " + c.externe : "jeux dans l'appli") + (c.annee ? " · " + c.annee : "");
     const badge = b.querySelector(".badge");

diff --git a/app/pages/salon.html b/app/pages/salon.html
@@ -27,7 +27,8 @@
     border-radius: 22px; border: 1px solid var(--bord); box-shadow: var(--ombre);
     background: radial-gradient(500px 220px at 0% 0%, hsl(var(--h) 70% 50% / calc(var(--lueur) * .35)), transparent 70%), var(--fond-2);
   }
-  .entete-console .jaquette { width: 130px; height: 120px; border-radius: 14px; }
+  .visuel-console { display: grid; place-items: center; width: 170px; height: 120px; border-radius: 14px; background: radial-gradient(120% 90% at 50% 100%, hsl(var(--h) 50% 28%), hsl(var(--h) 35% 11%) 70%); }
+  .visuel-console svg { width: 88%; filter: drop-shadow(0 8px 10px rgb(0 0 0 / .5)); }
   .entete-console h2 { margin: 0 0 4px; font-size: 28px; }
   .entete-console p { margin: 0; color: var(--texte-2); }
   body.en-jeu .catalogue { display: none; }
@@ -109,7 +110,7 @@
 <main>
   <section class="catalogue" aria-label="Catalogue de jeux">
     <div class="entete-console apparait">
-      <span class="jaquette" id="visuel-console"><span class="media"><span class="etiquette" id="sigle-console"></span></span></span>
+      <span class="visuel-console" id="visuel-console"></span>
       <div>
         <h2 id="nom-console"></h2>
         <p id="formats"></p>
@@ -186,6 +187,7 @@
 </main>
 <input type="file" id="fichier" multiple hidden>
 <script src="jeux.js"></script>
+<script src="consoles-dessins.js"></script>
 <script src="commandes.js"></script>
 <script>
 // L'image du jeu reste lisible (capture, diffusion aux potes) : comme dans la console DS.
@@ -217,9 +219,7 @@
   document.documentElement.style.setProperty("--h", C.h);
   $("titre").textContent = C.nom;
   $("nom-console").textContent = C.nom;
-  $("sigle-console").textContent = C.sigle;
-  $("visuel-console").dataset.support = C.support;
-  $("visuel-console").style.setProperty("--t", C.h);
+  $("visuel-console").innerHTML = RetroDessins.console(id); // SVG fixe de consoles-dessins.js
   $("formats").textContent = C.formats;
   $("fichier").accept = C.extensions.join(",");
   if (C.externe) {

diff --git a/vitrine/vitrine.css b/vitrine/vitrine.css
@@ -57,8 +57,8 @@ section { scroll-margin-top: 80px; }
 .consoles-site { display: grid; gap: 14px; grid-template-columns: repeat(auto-fill, minmax(200px, 1fr)); }
 .console-site { overflow: hidden; }
 .console-site .visuel { height: 130px; display: grid; place-items: end center; position: relative; overflow: hidden; background: radial-gradient(120% 90% at 50% 100%, hsl(var(--h) 50% 28%), hsl(var(--h) 35% 11%) 70%); }
-.console-site .visuel .etiquette { font-size: 18px; }
-.console-site .visuel::after { content: ""; position: absolute; left: 0; right: 0; bottom: 0; height: 8px; background: linear-gradient(#3a3227, #241e17); }
+.console-site .visuel { place-items: center; }
+.console-site .visuel svg { width: 80%; height: 110px; filter: drop-shadow(0 8px 10px rgb(0 0 0 / .5)); }
 .console-site div.texte { padding: 14px 16px 16px; }
 .console-site strong { display: block; }
 .console-site small { color: var(--texte-2); }
